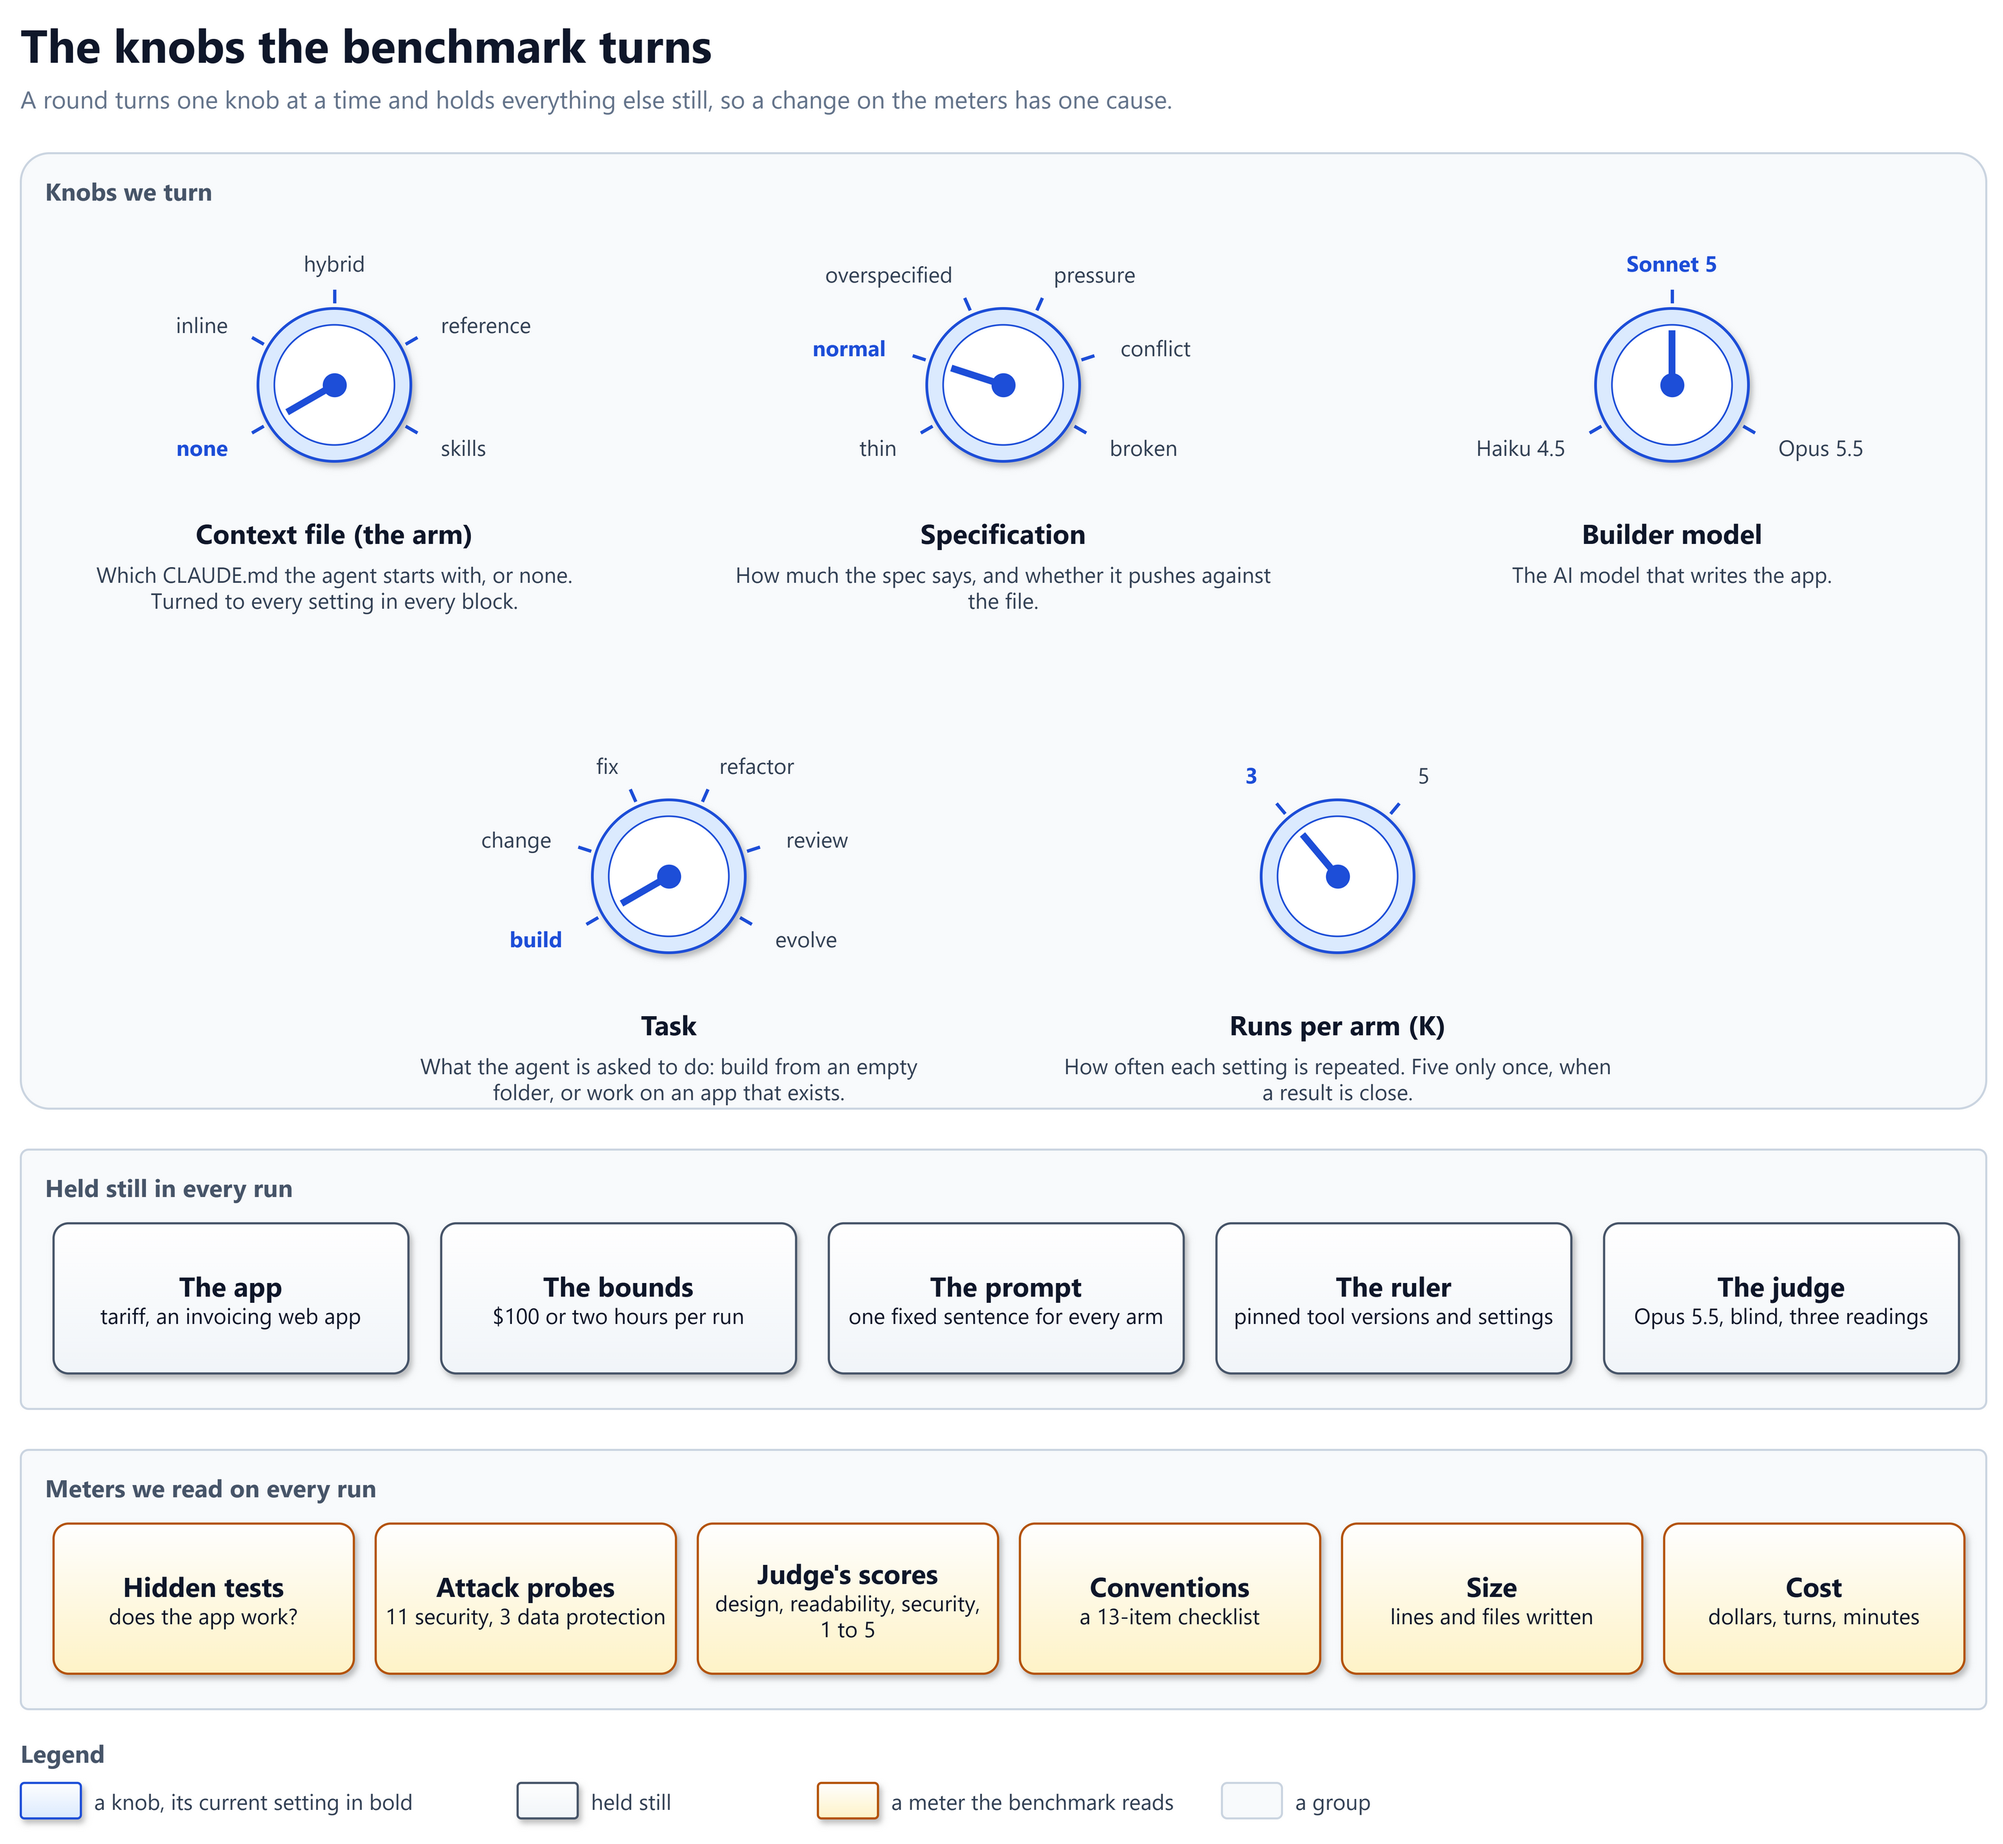
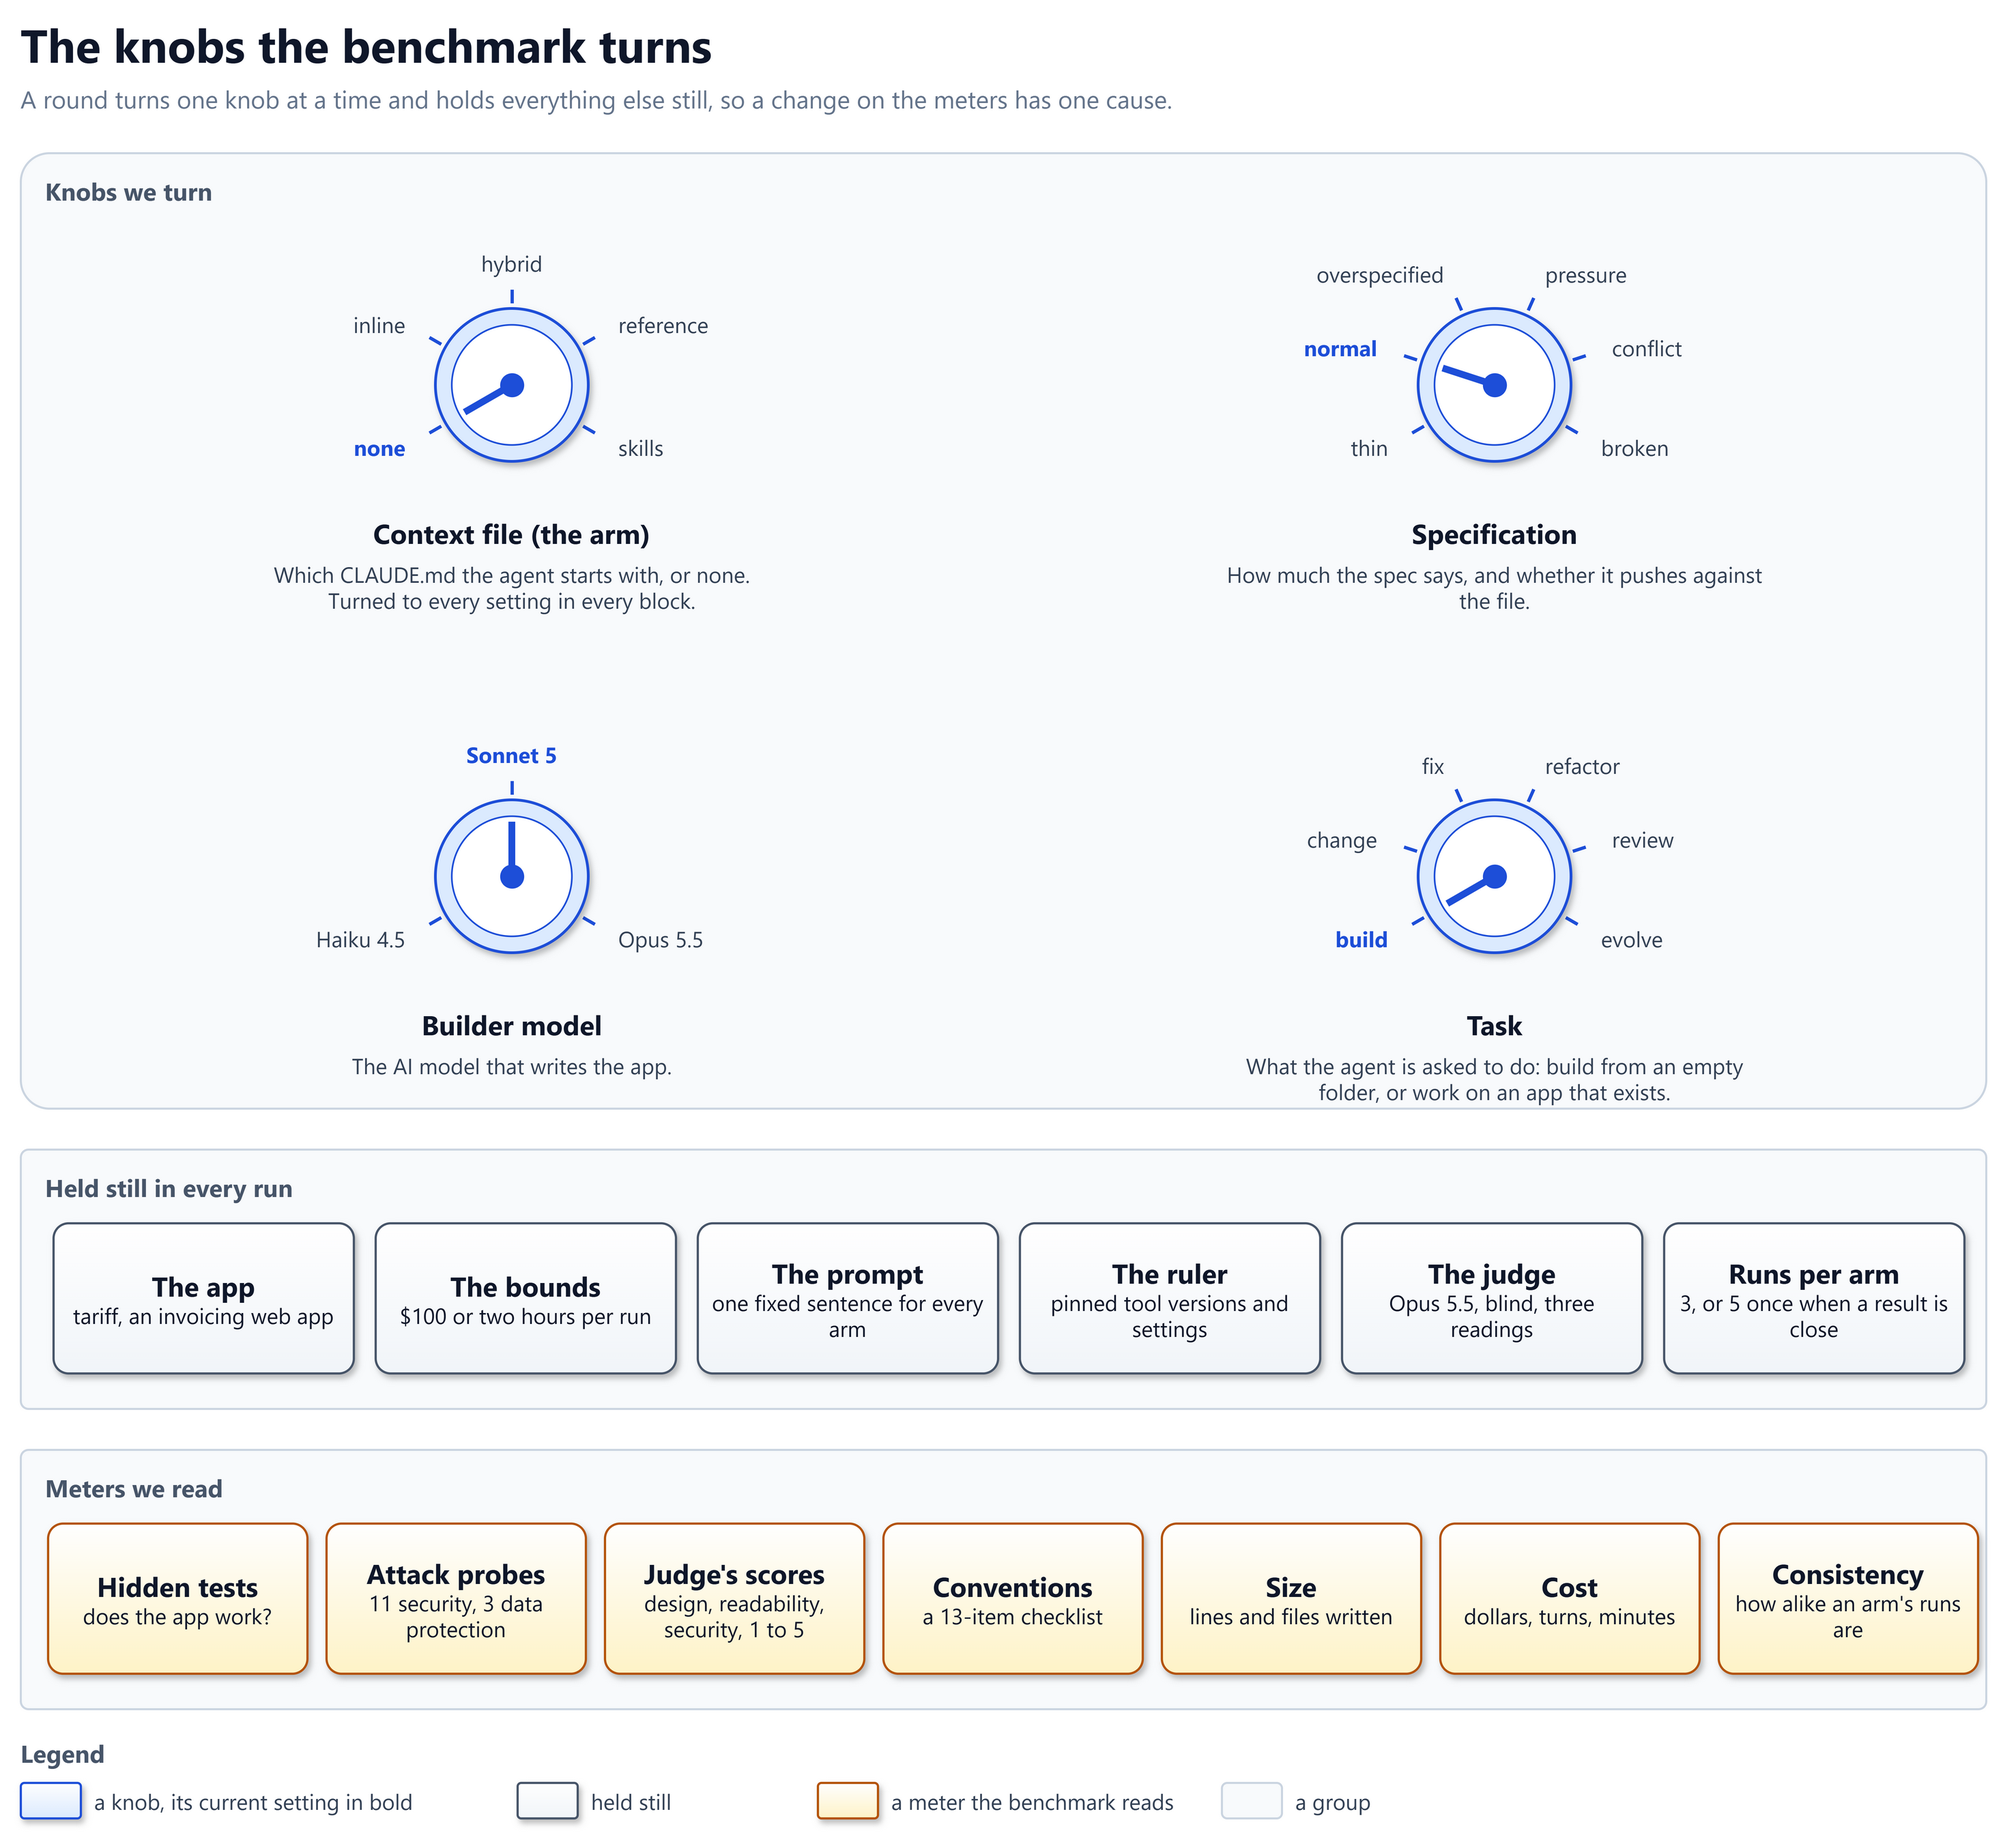
docs(primer): move runs per arm to held still, add consistency to the meters (#28)
* docs(primer): move runs per arm from the knobs to what is held still

K sets how much trust a result earns, not what is measured, and the
rules fix it at 3, or 5 once when a result is close. The knobs are now
a two-by-two grid: context file, spec, model and task.

Claude-Session: https://claude.ai/code/session_01HVh8GVGd72WUJ3BvM7TXQn

* docs(primer): add consistency to the meters

Consistency compares an arm's runs with each other, so the meters row
is now "Meters we read", not "on every run". The primer's compare step
and the glossary define it.

Claude-Session: https://claude.ai/code/session_01HVh8GVGd72WUJ3BvM7TXQn

---------

diff --git a/docs/primer.md b/docs/primer.md
@@ -46,7 +46,7 @@ one sitting and strict enough that a wrong cent shows.
 A round turns one knob at a time and holds everything else still. Then any
 change on the meters has one cause.
 
-![Five knobs the benchmark turns, each with its settings: the context file (none, inline, hybrid, reference, skills, with none selected), the specification (thin, normal, overspecified, pressure, conflict, broken, with normal selected), the builder model (Haiku 4.5, Sonnet 5, Opus 5.5, with Sonnet 5 selected), the task (build, change, fix, refactor, review, evolve, with build selected) and the runs per arm (3 or 5). Below them, what is held still in every run: the app, the bounds of $100 or two hours, the prompt, the ruler and the judge. Below that, the meters read on every run: hidden tests, attack probes, the judge's scores, conventions, size and cost](diagrams/knobs.png)
+![Four knobs the benchmark turns, each with its settings: the context file (none, inline, hybrid, reference, skills, with none selected), the specification (thin, normal, overspecified, pressure, conflict, broken, with normal selected), the builder model (Haiku 4.5, Sonnet 5, Opus 5.5, with Sonnet 5 selected) and the task (build, change, fix, refactor, review, evolve, with build selected). Below them, what is held still in every run: the app, the bounds of $100 or two hours, the prompt, the ruler, the judge and the runs per arm, 3 or 5 once when a result is close. Below that, the meters: hidden tests, attack probes, the judge's scores, conventions, size, cost, and consistency, how alike an arm's runs are](diagrams/knobs.png)
 
 | Knob | Settings | What turning it asks |
 | ---- | -------- | -------------------- |
@@ -54,7 +54,6 @@ change on the meters has one cause.
 | Specification | `thin`, `normal`, `overspecified`, `pressure`, `conflict`, `broken` | Does a file supply what the spec leaves out, and hold or yield when the spec pushes against it |
 | Builder model | Haiku 4.5, Sonnet 5, Opus 5.5 | Does a file help a weaker model more, and a stronger one less |
 | Task | build, change, fix, refactor, review, evolve | Does a file help beyond a first build, and over a project's life |
-| Runs per arm, K | 3, at most 5 | How steady a result is |
 
 The six specs:
 
@@ -112,7 +111,9 @@ The design's section 13 registers the arms and the questions they answer.
      design, readability, maintainability, security and data protection
      from 1 to 5
 5. **Compare.** Each run with a file is compared with its no-file partner,
-   and the differences give one verdict per meter.
+   and the differences give one verdict per meter. The runs of one arm are
+   also compared with each other: how alike they came out is the arm's
+   **consistency**.
 
 ## 5. Why runs are paired
 

diff --git a/docs/architecture/12-glossary.md b/docs/architecture/12-glossary.md
@@ -15,6 +15,7 @@ is in the design, [efficacy-benchmark.md](../design/efficacy-benchmark.md).
 | Chain | The templates a project resolves to, in resolution order. A generated arm is built from one chain at one release |
 | Change task | A second session that adds a spend-threshold discount and a capped tax rate to a copy of a frozen build |
 | Churn | The files touched and lines changed by the change task, counted from the commit of the copy |
+| Consistency | How alike an arm's runs come out: the spread of each meter across them, and conventions agreement, the share of checklist items on which every run gives the same verdict |
 | Context file | A `CLAUDE.md` the agent reads at the start of a session: project facts and house rules |
 | Contrast | Two arms compared within each block, such as `full − none`. K paired differences, one interval, one verdict per metric |
 | Control fixture | Trees built from two pinned applications, each damaged or improved on one judge row and each passing the same tests. A primary row counts only if it falls on the damaged trees and rises on the improved |
